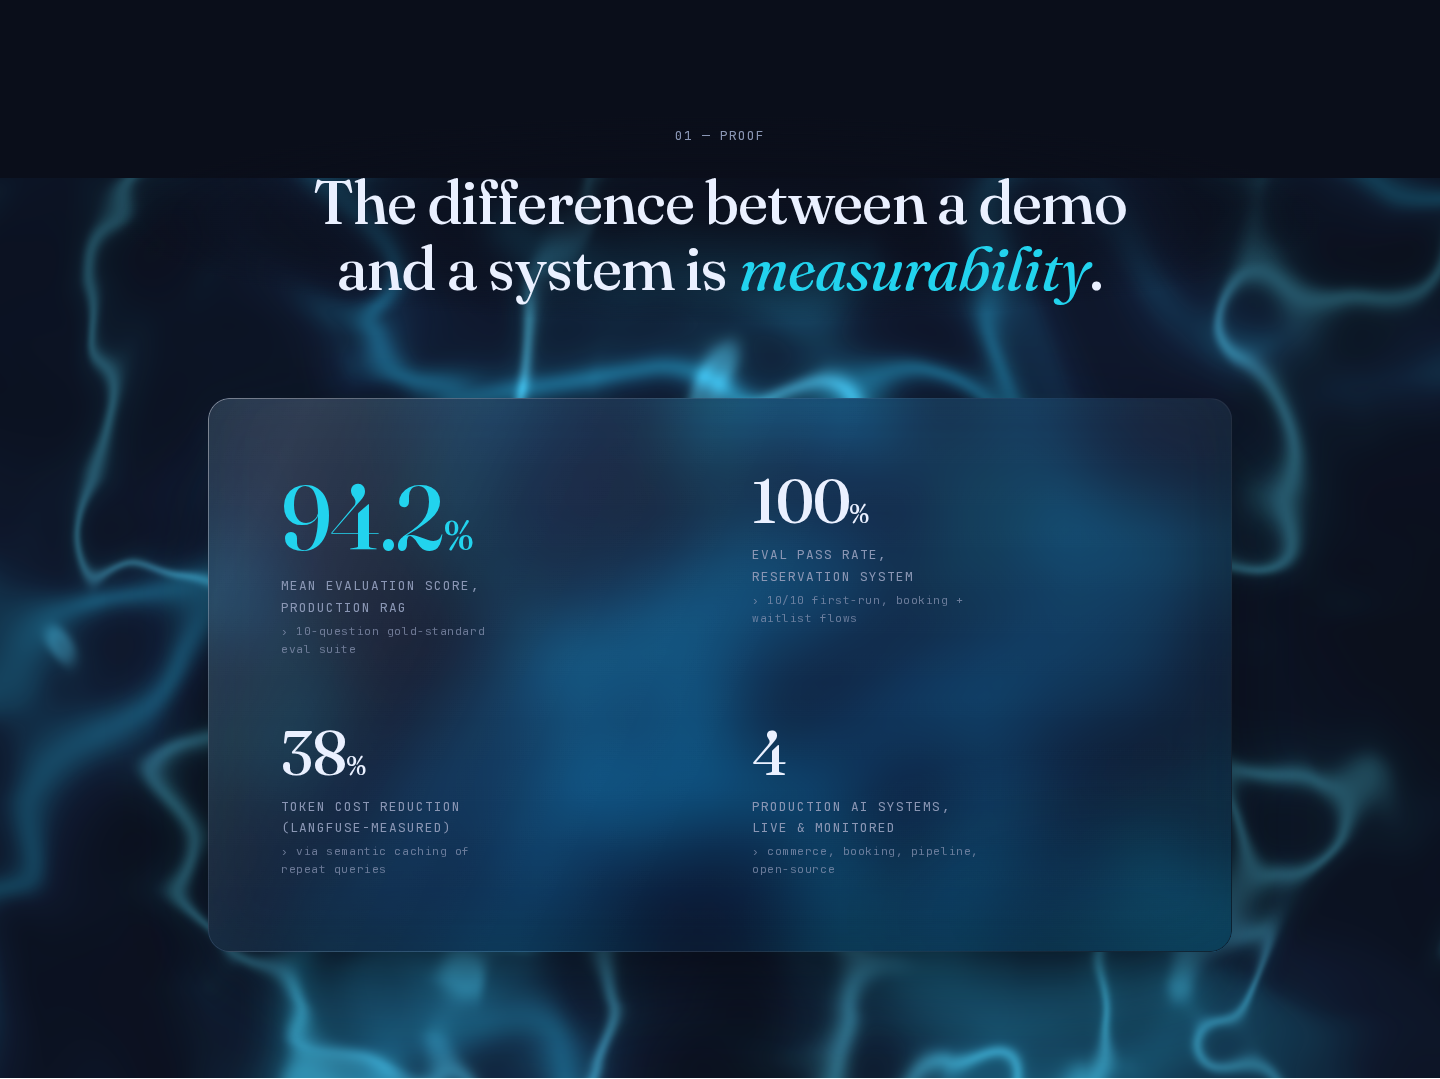
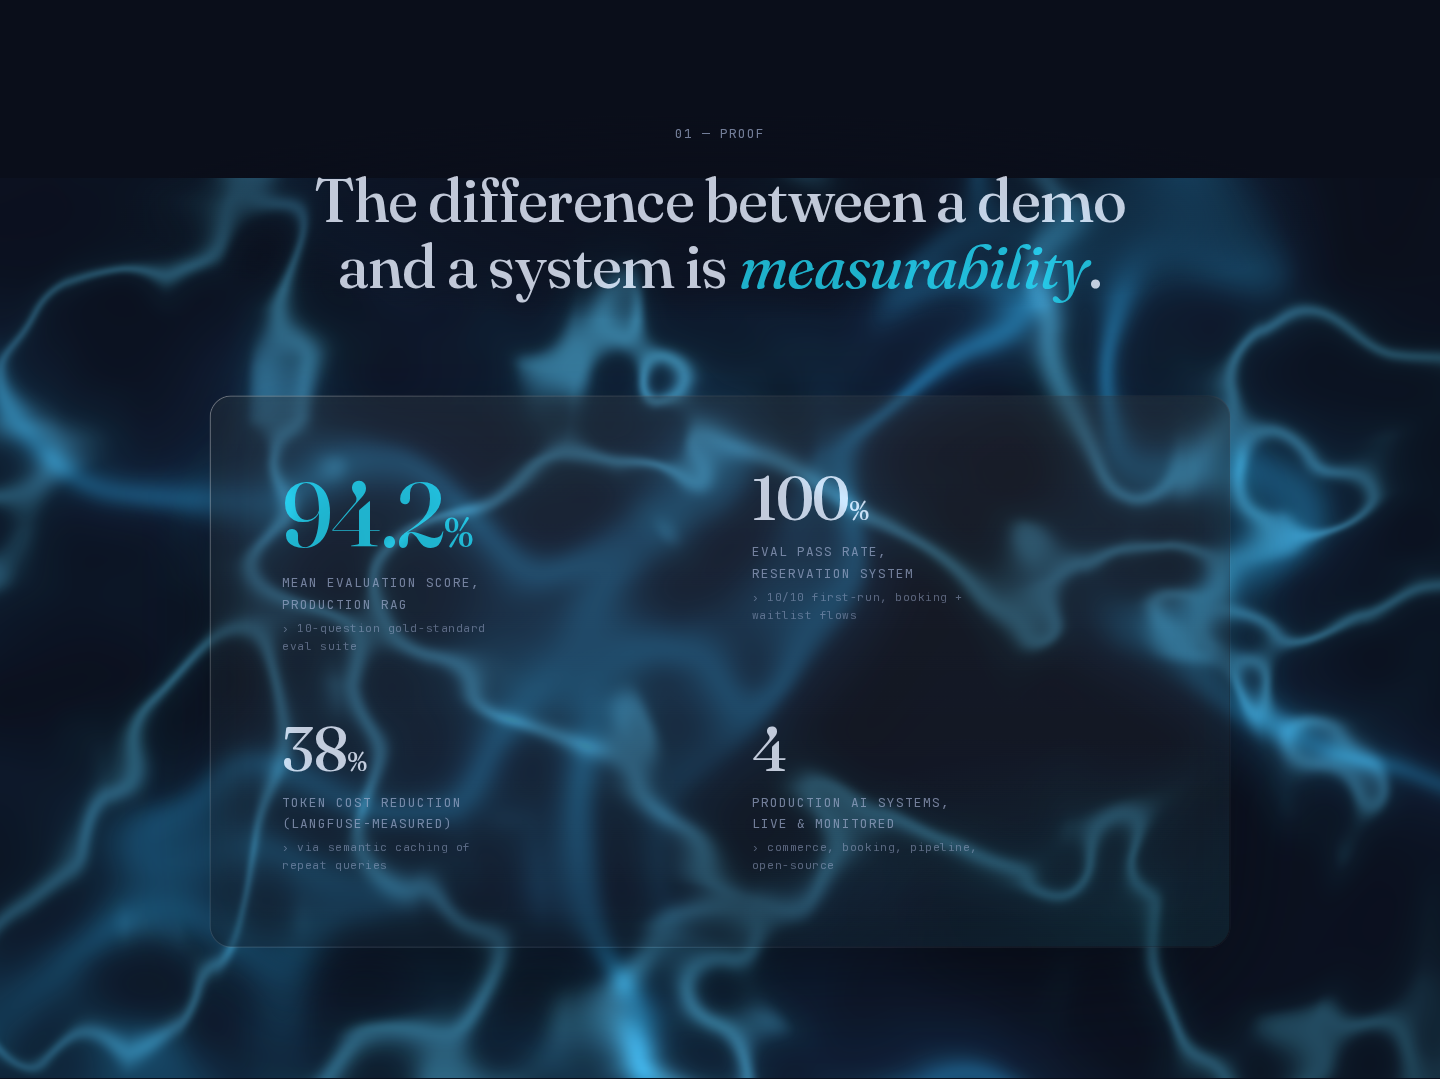
feat(portfolio-dark): fluid premium pass + scroll moments + mobile polish + humanized copy
Ferrofluid polish (same shader, richer)
- Brighter cores with wider soft bloom on the mid tier; hotter near
  filaments; deeper edge vignette (0.36 floor) — glossier lit-vs-dark
- Scroll storytelling: new uMoment (sin of page progress) eases core
  hue cyan->deep blue->cyan across chapters, lifts intensity at each
  moment peak; flow phase is INTEGRATED in JS so speed can ease with
  scroll and breathe irregularly (two slow sines) with no time-jumps —
  organic, not faster. Reduced motion still renders one static frame.

Work cards
- VERIFY-marked humanized copy (Sherry's wording): multilingual
  EN/Urdu/Roman-Urdu RAG story, restaurant no-shows, hand-filtering ->
  automated loop, anonymized public reference; card 1 metric now
  "38% lower cost per message · full observability", card 4 "Public
  reference"
- Mobile rhythm: inner padding clamp(2rem,6vw,3rem), text/video gap up
  to --space-12 — cards breathe at 375, nothing clips

Hydration bug fixed (surfaced by reduced-motion probe)
- DemoVideo conditionally rendered <video> from a useState(reduced)
  initializer -> SSR/client mismatch under reduced motion. The video
  now always renders; PLAYBACK is gated by a live reduced-motion check
  in the IntersectionObserver. 0 page errors in both motion modes.

Verified: captures 00/01/02 desktop+375 updated, reveals fire on
mobile, reduced-motion instant + static, 0 overflow, tsc + eslint
clean.

diff --git a/src/components/portfolio-dark/DarkWork.tsx b/src/components/portfolio-dark/DarkWork.tsx
@@ -16,14 +16,16 @@ type CaseStudy = {
   link?: { label: string; href: string };
 };
 
+// VERIFY: humanized copy below supplied by Sherry (2026-07-09) — confirm
+// wording reads true before any public deploy.
 const CASES: CaseStudy[] = [
   {
     index: "01",
     title: "Multilingual RAG Commerce Agent",
     meta: "Private client · Commerce",
     description:
-      "A WhatsApp sales agent that answers in the customer's own language, retrieves product knowledge through RAG, and semantically caches repeat questions. Every response is traced end-to-end in Langfuse.",
-    metric: "38% lower cost per message · full Langfuse observability",
+      "The hard part was answering accurately across English, Urdu, and Roman Urdu from one knowledge base — a hybrid RAG pipeline with semantic caching, every response traced in Langfuse.",
+    metric: "38% lower cost per message · full observability",
     metricAccent: true,
     stack: ["Python", "FastAPI", "ChromaDB", "Claude", "Langfuse"],
     demo: "rag-commerce-agent",
@@ -33,7 +35,7 @@ const CASES: CaseStudy[] = [
     title: "Reservation System",
     meta: "Hospitality · Booking platform",
     description:
-      "A WhatsApp booking and waitlist platform with a reservations and analytics pipeline behind it. Evaluated before launch — it passed on the first run.",
+      "Restaurants lose bookings after hours and to no-shows — this WhatsApp agent takes reservations and runs a waitlist 24/7, the full flow verified before launch.",
     metric: "100% first-run eval",
     metricAccent: true,
     stack: ["Python", "FastAPI", "Supabase", "WhatsApp Cloud API"],
@@ -44,7 +46,7 @@ const CASES: CaseStudy[] = [
     title: "Autonomous Agent Pipeline",
     meta: "Self-built · Automation",
     description:
-      "A self-running opportunity pipeline: scrape, score, generate, track, notify. It wakes on schedule, finishes without supervision, and reports what it did.",
+      "I was filtering opportunities by hand every day, so I automated the whole loop — scrape, score, generate, track, notify — running on its own each morning.",
     metric: "Runs daily · zero human input",
     metricAccent: true,
     stack: ["Python", "Claude", "Supabase", "cron"],
@@ -55,8 +57,8 @@ const CASES: CaseStudy[] = [
     title: "Open-Source RAG Reference",
     meta: "Public · Reference architecture",
     description:
-      "An anonymized reference architecture of the commerce agent — the same retrieval, caching and eval patterns, published as a public repository.",
-    metric: "Public reference architecture · same RAG + caching + eval patterns",
+      "An anonymized version of the commerce agent — same RAG, caching, and eval patterns, public and inspectable, with no client data.",
+    metric: "Public reference",
     metricAccent: false, // this row's single accent is the outbound link
     stack: ["Python", "ChromaDB", "FastAPI"],
     demo: "rag-reference",
@@ -84,21 +86,26 @@ const mono: React.CSSProperties = {
 function DemoVideo({ name, index, title }: { name: string; index: string; title: string }) {
   const videoRef = useRef<HTMLVideoElement>(null);
   const [ready, setReady] = useState(false); // real footage loaded
-  const [reduced] = useState(prefersReducedMotion);
 
   useEffect(() => {
     const video = videoRef.current;
-    if (!video || reduced) return;
+    if (!video) return;
+    // NOTE: the <video> always renders (conditional DOM here caused an SSR
+    // hydration mismatch under reduced motion) — playback alone is gated,
+    // checked LIVE so an OS toggle takes effect without reload.
     const io = new IntersectionObserver(
       ([entry]) => {
-        if (entry.isIntersecting) video.play().catch(() => {});
-        else video.pause();
+        if (entry.isIntersecting && !prefersReducedMotion()) {
+          video.play().catch(() => {});
+        } else {
+          video.pause();
+        }
       },
       { threshold: 0.25 }
     );
     io.observe(video);
     return () => io.disconnect();
-  }, [reduced]);
+  }, []);
 
   return (
     <div
@@ -128,20 +135,18 @@ function DemoVideo({ name, index, title }: { name: string; index: string; title:
         </span>
       </div>
 
-      {!reduced && (
-        <video
-          ref={videoRef}
-          className="absolute inset-0 h-full w-full object-cover transition-opacity"
-          style={{ opacity: ready ? 1 : 0, transitionDuration: "var(--dur-ui)" }}
-          src={`/demos/${name}.mp4`}
-          poster={`/demos/${name}.jpg`}
-          muted
-          loop
-          playsInline
-          preload="none"
-          onLoadedData={() => setReady(true)}
-        />
-      )}
+      <video
+        ref={videoRef}
+        className="absolute inset-0 h-full w-full object-cover transition-opacity"
+        style={{ opacity: ready ? 1 : 0, transitionDuration: "var(--dur-ui)" }}
+        src={`/demos/${name}.mp4`}
+        poster={`/demos/${name}.jpg`}
+        muted
+        loop
+        playsInline
+        preload="none"
+        onLoadedData={() => setReady(true)}
+      />
     </div>
   );
 }
@@ -215,8 +220,8 @@ export default function DarkWork() {
                 data-reveal=""
               >
                 <div
-                  className="grid grid-cols-1 items-center gap-[var(--space-8)] lg:grid-cols-12 lg:gap-[var(--space-12)]"
-                  style={{ padding: "clamp(1.5rem, 4vw, 3rem)" }}
+                  className="grid grid-cols-1 items-center gap-[var(--space-12)] lg:grid-cols-12 lg:gap-[var(--space-12)]"
+                  style={{ padding: "clamp(2rem, 6vw, 3rem)" }}
                 >
                   {/* text */}
                   <div className={`lg:col-span-6 ${flipped ? "lg:order-2" : ""}`}>

diff --git a/src/components/portfolio-dark/Ferrofluid.tsx b/src/components/portfolio-dark/Ferrofluid.tsx
@@ -25,6 +25,7 @@ uniform vec2 uRes;
 uniform float uIntensity;
 uniform float uDetail;
 uniform float uScroll; /* 0..1 page progress — depth as you move through */
+uniform float uMoment; /* sin(uScroll*PI): each section = a different moment */
 
 float hash(vec2 p) { return fract(sin(dot(p, vec2(127.1, 311.7))) * 43758.5453); }
 
@@ -64,44 +65,50 @@ void main() {
   vec3 cyan = vec3(0.133, 0.827, 0.933);  /* --accent   #22D3EE */
   vec3 hot  = vec3(0.62, 0.94, 1.0);      /* near-white cyan for cores */
 
+  /* section "moment": core hue eases cyan -> deeper blue mid-page and
+     back; halos counter-shift slightly, so each chapter has its own
+     temperature inside one continuous space */
+  vec3 coreCol = mix(cyan, blue * 1.15, uMoment * 0.4);
+  vec3 haloCol = mix(blue * 0.8, cyan * 0.85, uMoment * 0.3);
+
   float glow = 0.0;
   vec3 col = vec3(0.0);
 
   // FAR tier — broad, dim blue masses (depth base)
   {
     float r = ridge(fbm(p * 0.7 + warp * 1.2, t * 0.7));
-    float halo = pow(smoothstep(0.5, 1.0, r), 2.0) * 0.3;
+    float halo = pow(smoothstep(0.5, 1.0, r), 2.0) * 0.26;
     glow += halo;
-    col += blue * 0.55 * halo;
+    col += blue * 0.5 * halo;
   }
 
-  // MID tier — main tendrils: bright cyan core + soft blue bloom
+  // MID tier — main tendrils: bright core + wide soft bloom
   {
     float r = ridge(fbm(p * 1.15 + warp * 1.7, t));
-    float core = pow(smoothstep(0.74, 1.0, r), 5.0) * 0.95;
-    float halo = pow(smoothstep(0.48, 1.0, r), 2.2) * 0.5;
-    glow += core + halo;
-    col += cyan * core + blue * 0.8 * halo;
+    float core = pow(smoothstep(0.74, 1.0, r), 5.0) * 1.05;
+    float bloom = pow(smoothstep(0.42, 1.0, r), 2.0) * 0.55;
+    glow += core + bloom;
+    col += coreCol * core + haloCol * bloom;
   }
 
   // NEAR tier — thin hot filaments (desktop only): brightest, closest
   if (uDetail > 1.5) {
     float r = ridge(fbm(p * 2.4 - warp * 1.3, t * 1.3));
-    float core = pow(smoothstep(0.78, 1.0, r), 6.0) * 1.1;
-    float halo = pow(smoothstep(0.55, 1.0, r), 2.5) * 0.32;
+    float core = pow(smoothstep(0.78, 1.0, r), 6.0) * 1.25;
+    float halo = pow(smoothstep(0.55, 1.0, r), 2.5) * 0.34;
     glow += core + halo;
-    col += mix(cyan, hot, 0.5) * core + cyan * 0.7 * halo;
+    col += mix(coreCol, hot, 0.5) * core + cyan * 0.7 * halo;
   }
 
-  // vignette — navy deepens toward the edges so the glow pops centrally
+  // vignette — navy deepens harder toward the edges; lit center = gloss
   vec2 cuv = uv - 0.5;
   cuv.x *= uRes.x / uRes.y;
-  float vig = mix(0.45, 1.0, smoothstep(1.15, 0.25, length(cuv)));
+  float vig = mix(0.36, 1.0, smoothstep(1.2, 0.22, length(cuv)));
   glow *= vig;
   col *= vig;
 
-  // fluid warms slightly as you go deeper into the page
-  float k = uIntensity * (1.0 + 0.15 * uScroll);
+  // deeper into the page = slightly warmer + a lift at each moment peak
+  float k = uIntensity * (1.0 + 0.15 * uScroll) * (1.0 + 0.06 * uMoment);
   float alpha = clamp(glow, 0.0, 1.0) * k;
   gl_FragColor = vec4(col * k, alpha); /* premultiplied */
 }
@@ -157,10 +164,12 @@ export default function Ferrofluid() {
     const uIntensity = gl.getUniformLocation(prog, "uIntensity");
     const uDetail = gl.getUniformLocation(prog, "uDetail");
     const uScroll = gl.getUniformLocation(prog, "uScroll");
+    const uMoment = gl.getUniformLocation(prog, "uMoment");
 
     gl.uniform1f(uIntensity, mobile ? 0.18 : 0.3);
     gl.uniform1f(uDetail, mobile ? 1 : 2);
     gl.uniform1f(uScroll, 0);
+    gl.uniform1f(uMoment, 0);
 
     // page progress → shader depth (skipped under reduced motion)
     let scrollTarget = 0;
@@ -180,11 +189,27 @@ export default function Ferrofluid() {
     resize();
     window.addEventListener("resize", resize);
 
+    // Flow phase is INTEGRATED (not raw time) so speed can ease with scroll
+    // and breathe organically without time-jumps.
+    let phase = 40; // also the static frame for reduced motion
+    let lastT: number | null = null;
+
     const draw = (timeSec: number) => {
       // eased follow so the depth shift glides with Lenis, never snaps
       scrollCurrent += (scrollTarget - scrollCurrent) * 0.06;
+      const moment = Math.sin(Math.min(Math.max(scrollCurrent, 0), 1) * Math.PI);
+
+      const dt = lastT === null ? 0 : Math.min(timeSec - lastT, 0.1);
+      lastT = timeSec;
+      // organic breathing (slow irregular pulse) + gentle per-moment easing —
+      // "more alive", never simply faster
+      const speed =
+        1.0 + 0.18 * moment + 0.1 * Math.sin(timeSec * 0.13) + 0.05 * Math.sin(timeSec * 0.041);
+      phase += dt * speed;
+
       gl.uniform1f(uScroll, scrollCurrent);
-      gl.uniform1f(uTime, timeSec);
+      gl.uniform1f(uMoment, moment);
+      gl.uniform1f(uTime, phase);
       gl.clearColor(0, 0, 0, 0);
       gl.clear(gl.COLOR_BUFFER_BIT);
       gl.drawArrays(gl.TRIANGLES, 0, 3);
